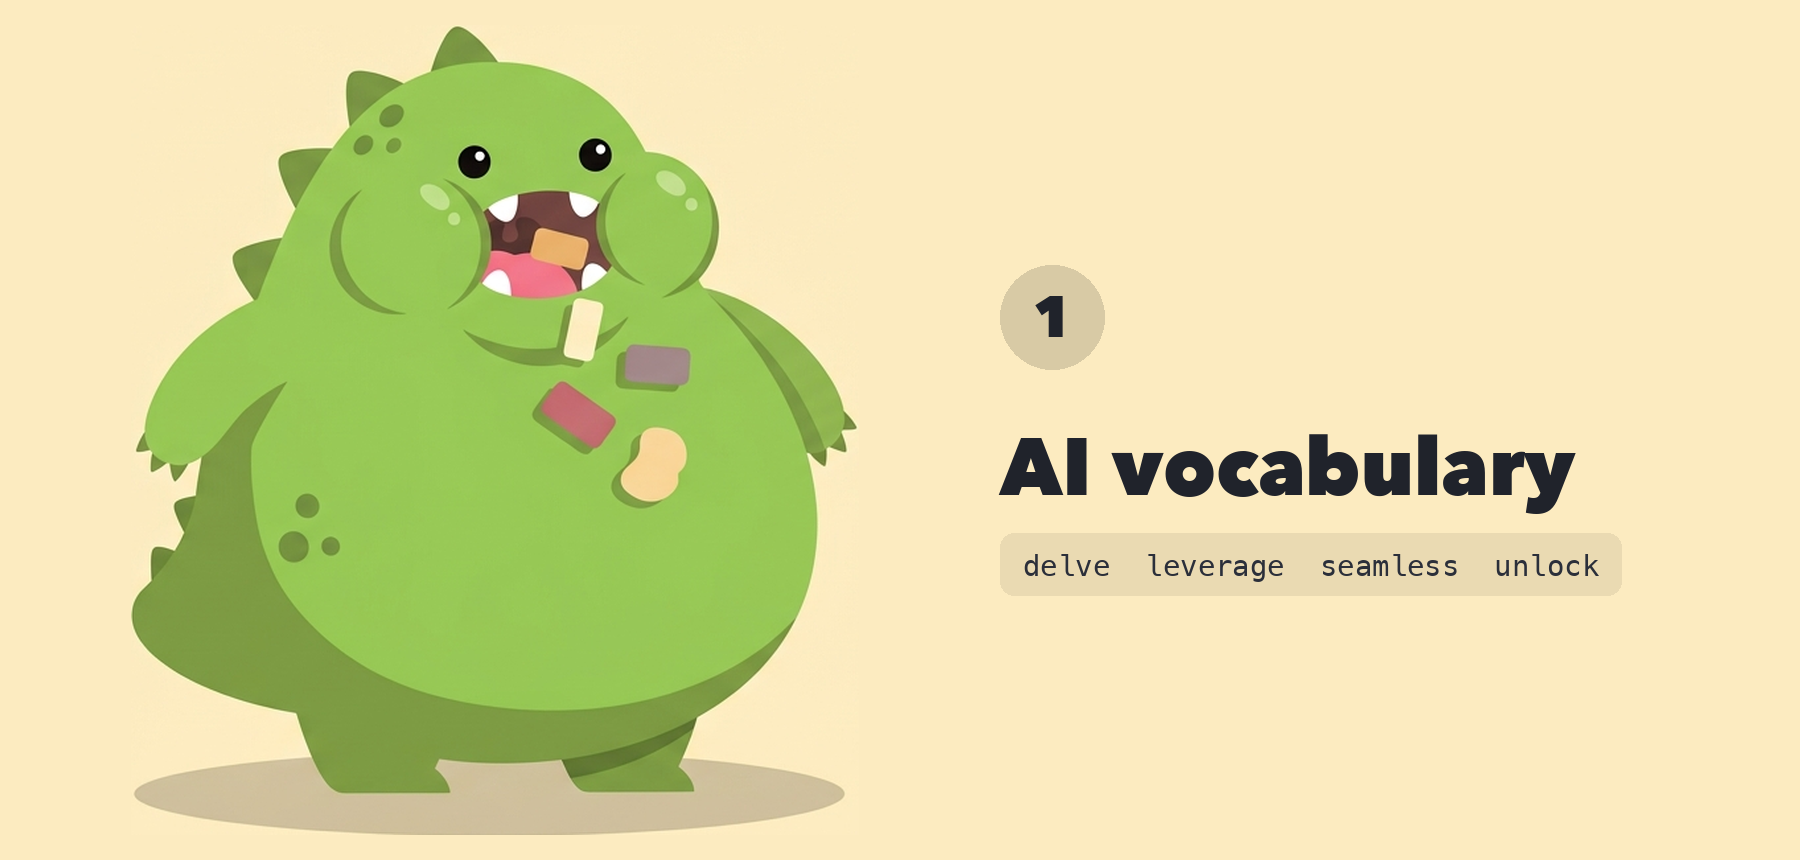
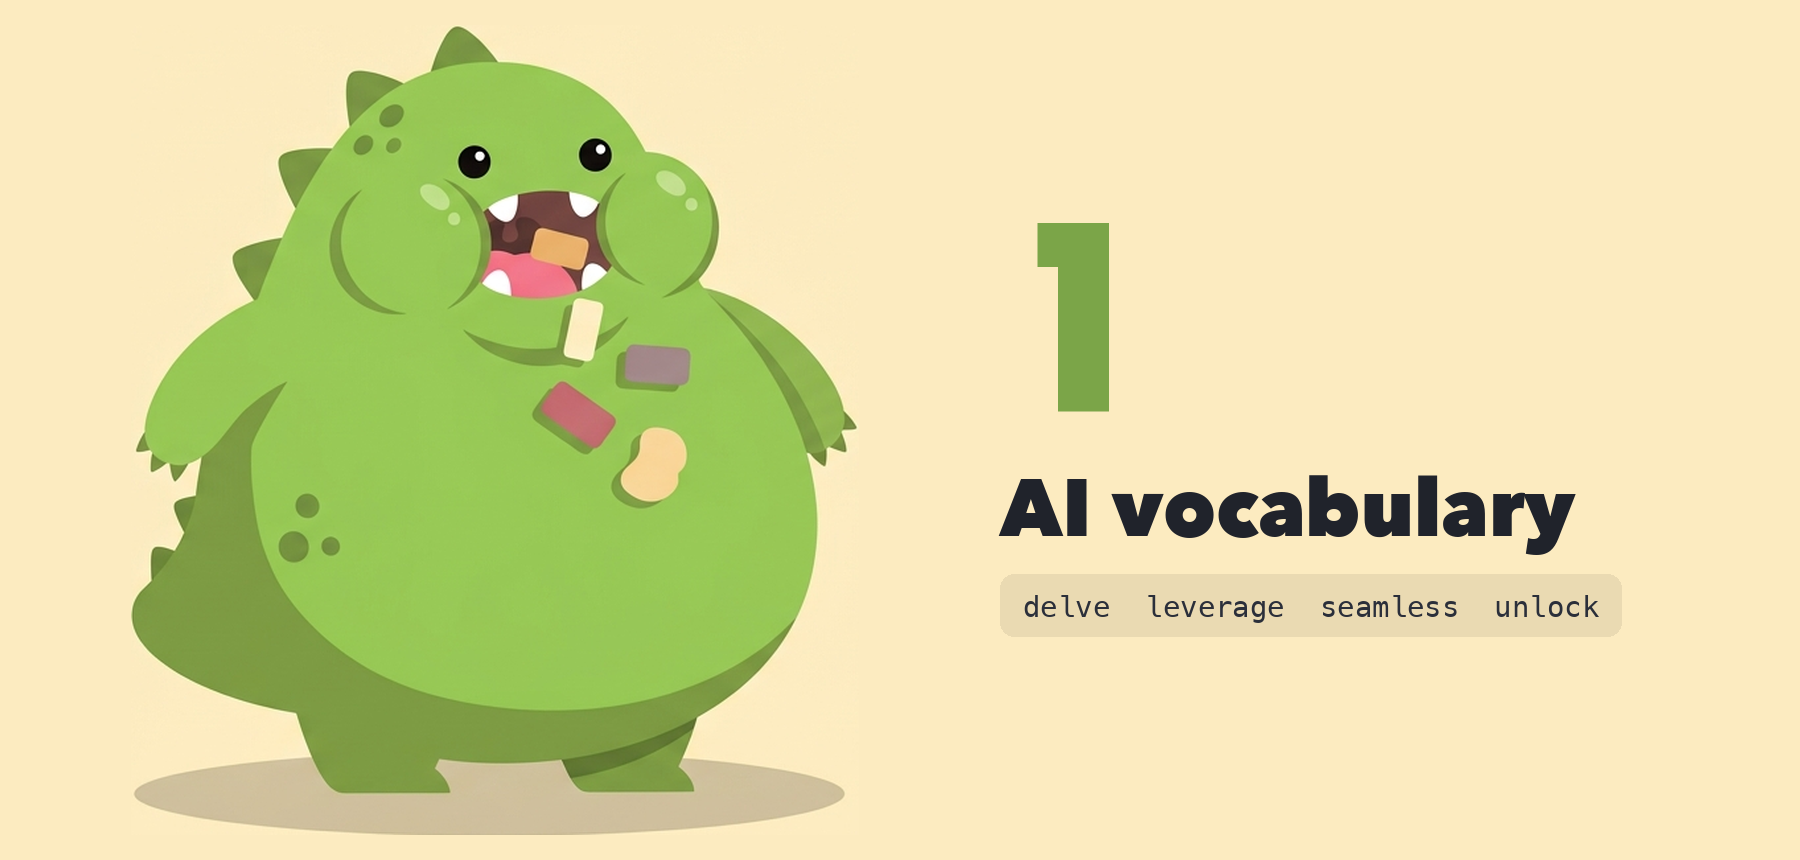
Section 5 becomes sales and marketing copy; flat coloured numerals
Numerals: Futura Condensed ExtraBold, sized as a display element and
coloured from each monster's own body colour. Fixed the colour picker,
which was sampling the pastel background instead of the character, so
rule 5's numeral came out green instead of purple.

Section 5 reframed. "Invented proof" was a weak headline for the thing
readers actually want, so it moves inside a broader section about
whether the line sells anything. Nothing is dropped: never-invent-proof
is still the hard rule and deslop.py is untouched, still five groups,
still one point each. Fake proof is a conversion failure before it is a
writing failure, so this is where it belongs.

The section now names the work it draws on - Krug, Priestley, Hormozi
and the category benchmark - all of which were already cited in
references/sources.md. No new names were added: claiming influences the
repo does not have would be inventing proof.

Changed region(s): [[0.56, 0.4837, 0.9022, 0.7256], [0.5289, 0.2419, 0.6222, 0.4837], [0.84, 0.6953, 0.9022, 0.7256]]

diff --git a/README.md b/README.md
@@ -92,7 +92,8 @@ capable of adding new ones while it does.
 
 ## What the linter hunts
 
-Five groups, one point each. Full catalogue with fixes:
+Five groups, one point each. Four of them strip the AI accent. The fifth asks whether the
+line sells anything. Full catalogue with fixes:
 [`references/signs-of-ai-writing.md`](references/signs-of-ai-writing.md).
 
 ![Signs of AI writing — caught on a real build](docs/img/ridgeline-signs.png)
@@ -119,12 +120,36 @@ openers, self-answering questions… 17 shapes, contracted and uncontracted.
 **4. Rule-of-three rhythm.** *faster, smarter, and better.* One tricolon is rhetoric;
 three on a page is a machine.
 
-![Rule 5, invented proof: "10,000+ happy customers". Never invent proof.](docs/img/rule-5-proof.png)
+![Rule 5, sales and marketing copy: "committed to the highest standards". What the page is actually for.](docs/img/rule-5-conversion.png)
 
-**5. Invented proof.** Number-plus-noun patterns ("10,000+ happy users"). Deliberately
-noisy: a false positive costs ten seconds, a false negative is a claim you cannot back.
-It sees a number beside a noun, not whether you can evidence it, so a true claim you
-can defend passes with `--allow-proof` — the hits still print.
+**5. Sales and marketing copy.** The first four rules get the AI accent out. This one asks
+the harder question: does the line sell anything? Clean copy that says nothing is still a
+dead page. Two things run here.
+
+*The hard rule — never invent proof.* The linter flags number-plus-noun patterns
+("10,000+ happy users"). Deliberately noisy: a false positive costs ten seconds, a false
+negative is a claim you cannot back. It sees a number beside a noun, not whether you can
+evidence it, so a true claim you can defend passes with `--allow-proof` — the hits still
+print. Fake proof is a conversion failure before it is a writing failure. Nobody buys from
+a page they have caught lying.
+
+*The bar — the category benchmark.* Before rewriting a page, read the five best live
+pages in its category and quote their headlines verbatim. The bar is what the reader has
+already seen, not what sounds nice in isolation.
+
+The rewrite runs on named work, not vibes:
+
+| Who | What this takes |
+|---|---|
+| **Steve Krug**, *Don't Make Me Think* (2000) | every line the reader has to decode is a line they skip |
+| **Daniel Priestley** — pitch order | open on the problem and the insight, never the product |
+| **Alex Hormozi** — the offer side | named pain, checkable specificity, proof you actually own |
+
+Those three plus the benchmark become five working principles, with a real before and
+after on each: [`references/principles.md`](references/principles.md).
+
+> **Before:** Committed to the highest standards of workmanship
+> **After:** We do not do overlays. If the roof needs replacing, it gets stripped.
 
 ## What goes in the tells' place
 
